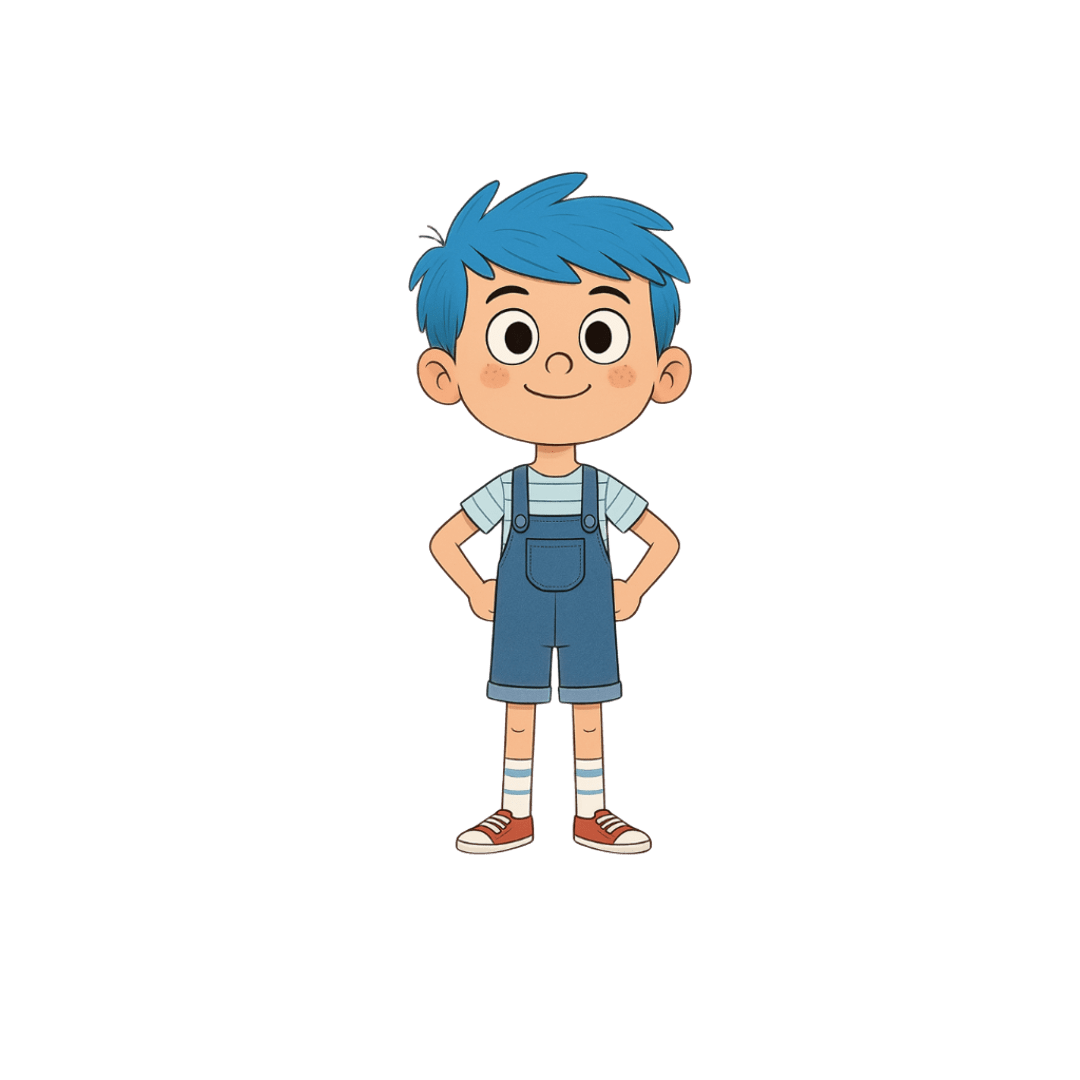
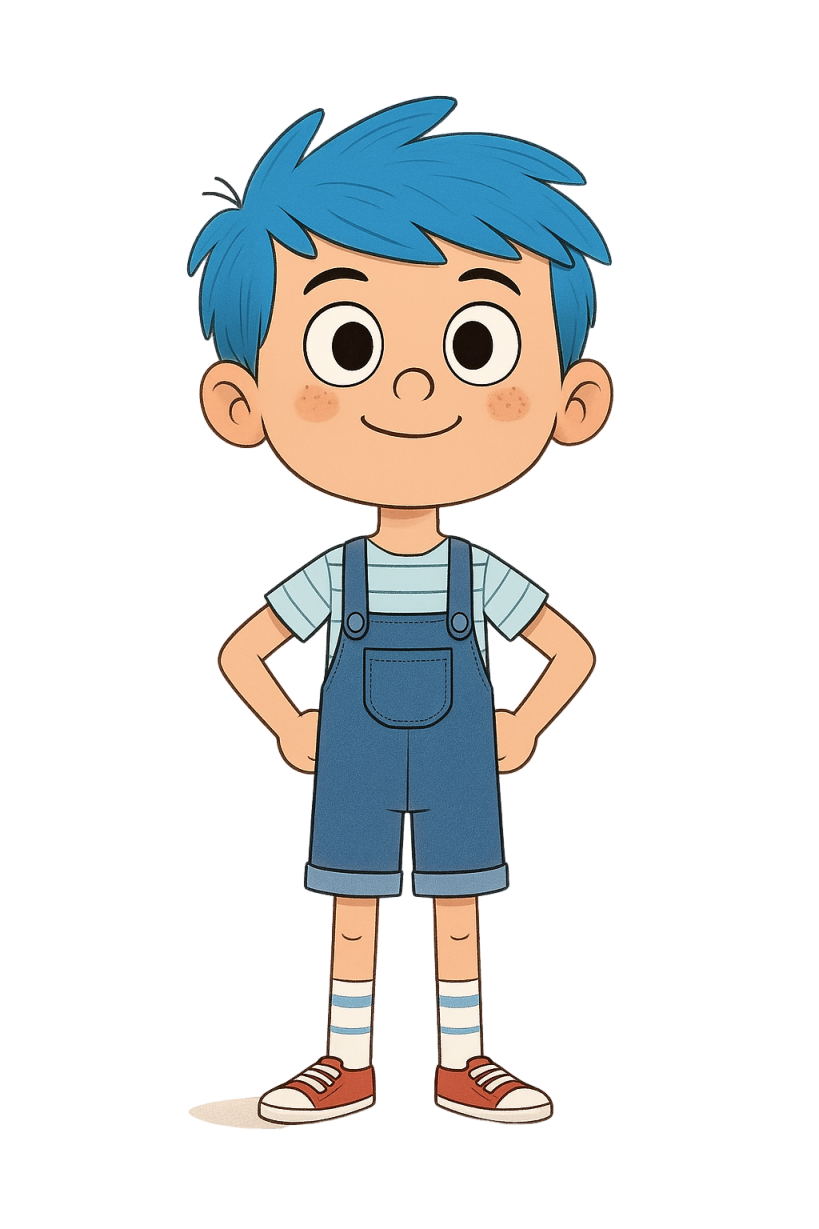
fazendo personagens
personagem criança feito, personagem adolescente falta terminar e vilão feito talvez precise de ajuste)

Changed region(s): [[0.2137, 0.0611, 0.7631, 0.9167]]

diff --git a/Personagens/Personagem.py b/Personagens/Personagem.py
@@ -1,15 +1,22 @@
 import pygame
 import sys
 
-class Personagem1(pygame.sprite.Sprite):
-    def __init__(self, x, y):
+class PersonagemBase(pygame.sprite.Sprite):
+    def __init__(self, imagem_path, x, y, teclas_controle, tamanho):
         super().__init__()
+<<<<<<< Updated upstream:Personagens/Personagem.py
         self.image = pygame.image.load('personagens/imagens/personagemCriança.png')
         self.image = pygame.transform.scale(self.image, (150, 150))
+=======
+        self.image = pygame.image.load(imagem_path)
+        self.image = pygame.transform.scale(self.image, tamanho)
+>>>>>>> Stashed changes:personagens/Personagem.py
         self.rect = self.image.get_rect()
         self.rect.topleft = (x, y)
         self.velocidade = 5
+        self.teclas = teclas_controle
 
+<<<<<<< Updated upstream:Personagens/Personagem.py
     def update(self, teclas):
         if teclas[pygame.K_LEFT]:
             self.rect.x -= self.velocidade
@@ -19,6 +26,87 @@ class Personagem1(pygame.sprite.Sprite):
             self.rect.y -= self.velocidade
         if teclas[pygame.K_DOWN]:
             self.rect.y += self.velocidade
+=======
+    def update(self, teclas_pressionadas):
+        for direcao, teclas in self.teclas.items():
+            if any(teclas_pressionadas[tecla] for tecla in teclas):  
+                if direcao == "esquerda":
+                    self.rect.x -= self.velocidade
+                elif direcao == "direita":
+                    self.rect.x += self.velocidade
+                elif direcao == "cima":
+                    self.rect.y -= self.velocidade
+                elif direcao == "baixo":
+                    self.rect.y += self.velocidade
+
+        # Limites da tela
+        if self.rect.left < -30:
+            self.rect.left = -30
+        if self.rect.right > 830:
+            self.rect.right = 830
+        if self.rect.top < -10:
+            self.rect.top = -10
+        if self.rect.bottom > 610:
+            self.rect.bottom = 610
+
+        if self.rect.bottom > 600:
+            pygame.quit()
+            sys.exit()
+
+    def desenhar(self, display):
+        display.blit(self.image, self.rect.topleft)
+
+class Personagem1(PersonagemBase):
+    def __init__(self, x, y):
+        teclas_controle = {
+            "esquerda": [pygame.K_a, pygame.K_LEFT],
+            "direita": [pygame.K_d, pygame.K_RIGHT],
+            "cima": [pygame.K_w, pygame.K_UP],
+            "baixo": [pygame.K_s, pygame.K_DOWN]
+        }
+        tamanho = (100, 120)
+        super().__init__('personagens/imagens/personagemCrianca.png', x, y, teclas_controle, tamanho)
+
+class Personagem2(PersonagemBase):
+    def __init__(self, x, y):
+        teclas_controle = {
+            "esquerda": [pygame.K_a, pygame.K_LEFT],
+            "direita": [pygame.K_d, pygame.K_RIGHT],
+            "cima": [pygame.K_w, pygame.K_UP],
+            "baixo": [pygame.K_s, pygame.K_DOWN]
+        }
+        tamanho = (150, 150)
+        super().__init__('personagens/imagens/personagemAdolescente.png', x, y, teclas_controle, tamanho)
+
+class Vilao(pygame.sprite.Sprite):
+    def __init__(self, x, y):
+        super().__init__()
+        self.image = pygame.image.load('personagens/imagens/homemdosaco.png')
+        self.image = pygame.transform.scale(self.image, (120, 150))
+        self.rect = self.image.get_rect()
+        self.rect.topleft = (x, y)
+        self.velocidade = 1#depois mudar velocidade
+
+    def update(self, personagem):
+        if personagem.rect.centerx > self.rect.centerx:
+            self.rect.x += self.velocidade
+        elif personagem.rect.centerx < self.rect.centerx:
+            self.rect.x -= self.velocidade
+
+        if personagem.rect.centery > self.rect.centery:
+            self.rect.y += self.velocidade
+        elif personagem.rect.centery < self.rect.centery:
+            self.rect.y -= self.velocidade
+
+        if self.rect.left < -30:
+            self.rect.left = -30
+        if self.rect.right > 830:
+            self.rect.right = 830
+        if self.rect.top < -10:
+            self.rect.top = -10
+        if self.rect.bottom > 610:
+            self.rect.bottom = 610
+>>>>>>> Stashed changes:personagens/Personagem.py
 
     def desenhar(self, display):
         display.blit(self.image, self.rect.topleft)

diff --git a/fases/fase1.py b/fases/fase1.py
@@ -1,0 +1,58 @@
+import pygame
+import random
+from cenario.rua import Rua
+from personagens.Personagem import Personagem1, Vilao
+from cenario.obstaculos import Obstaculo
+
+def executar(tela):
+    config = {
+        "velocidade": 3,
+        "intervalo_obstaculos": 1500,
+        "cor_fundo": (165, 219, 142)
+    }
+    
+    rua = Rua(800, 600)
+    personagem1 = Personagem1(400, 300) #posição inicial
+    vilao = Vilao(600, 400)
+
+    grupo_personagens = pygame.sprite.Group(personagem1)
+    grupo_obstaculos = pygame.sprite.Group()
+    
+    clock = pygame.time.Clock()
+    obstaculo_timer = 0
+    running = True
+
+    while running:
+        for event in pygame.event.get():
+            if event.type == pygame.QUIT:
+                return False
+            if event.type == pygame.KEYDOWN:
+                if event.key == pygame.K_ESCAPE:
+                    return True
+
+        obstaculo_timer += clock.get_time()
+        if obstaculo_timer > config["intervalo_obstaculos"]:  
+            tipo = random.choice(['poste', 'buraco'])
+            x = random.randint(50, 750)
+            obstaculo = Obstaculo(tipo, x, -100)
+            grupo_obstaculos.add(obstaculo)
+            obstaculo_timer = 0
+
+        teclas = pygame.key.get_pressed()
+        rua.atualizar(config["velocidade"])
+        
+        grupo_personagens.update(teclas)
+        grupo_obstaculos.update()
+        vilao.update(personagem1) 
+
+        tela.fill(config["cor_fundo"])
+        rua.desenhar(tela)
+        grupo_obstaculos.draw(tela)
+        grupo_personagens.draw(tela)
+        vilao.desenhar(tela)
+        
+        if vilao.rect.colliderect(personagem1.rect):
+                pygame.quit()
+        
+        pygame.display.flip()
+        clock.tick(60)

diff --git a/fases/fase2.py b/fases/fase2.py
@@ -1,0 +1,50 @@
+import pygame
+import random
+from cenario.rua import Rua
+from personagens.Personagem import Personagem2
+from cenario.obstaculos import Obstaculo
+
+def executar(tela):
+    config = {
+        "velocidade": 5,
+        "intervalo_obstaculos": 1000,
+        "cor_fundo": (142, 165, 219)
+    }
+    
+    rua = Rua(800, 600)
+    personagem2 = Personagem2(400, 300) # posição inicial
+    grupo_personagens = pygame.sprite.Group(personagem2)
+    grupo_obstaculos = pygame.sprite.Group()
+    
+    clock = pygame.time.Clock()
+    obstaculo_timer = 0
+    running = True
+
+    while running:
+        for event in pygame.event.get():
+            if event.type == pygame.QUIT:
+                return False
+            if event.type == pygame.KEYDOWN:
+                if event.key == pygame.K_ESCAPE:
+                    return True
+
+        obstaculo_timer += clock.get_time()
+        if obstaculo_timer > config["intervalo_obstaculos"]:  
+            tipo = random.choice(['poste', 'buraco', 'cone'])
+            x = random.randint(50, 750)
+            obstaculo = Obstaculo(tipo, x, -100)
+            grupo_obstaculos.add(obstaculo)
+            obstaculo_timer = 0
+
+        teclas = pygame.key.get_pressed()
+        rua.atualizar(config["velocidade"])
+        grupo_personagens.update(teclas)
+        grupo_obstaculos.update()
+
+        tela.fill(config["cor_fundo"])
+        rua.desenhar(tela)
+        grupo_obstaculos.draw(tela)
+        grupo_personagens.draw(tela)
+        
+        pygame.display.flip()
+        clock.tick(60)

diff --git a/main.py b/main.py
@@ -4,6 +4,7 @@ from Personagens.Personagem import Personagem1
 
 def main():
     pygame.init()
+<<<<<<< Updated upstream
     
     tela_largura, tela_altura = 800, 600
     display = pygame.display.set_mode((tela_largura, tela_altura))
@@ -16,6 +17,10 @@ def main():
     grupo_personagens.add(personagem1)
 
 
+=======
+    tela = pygame.display.set_mode((800,600))
+    pygame.display.set_caption("The Life Snakes")
+>>>>>>> Stashed changes
     clock = pygame.time.Clock()
     
     velocidade = 3  
